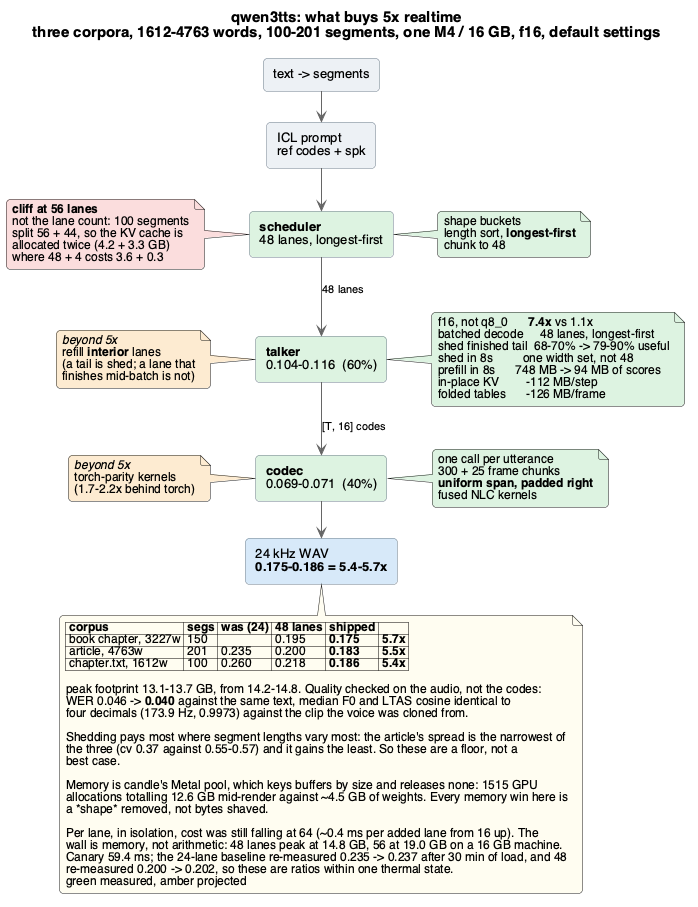
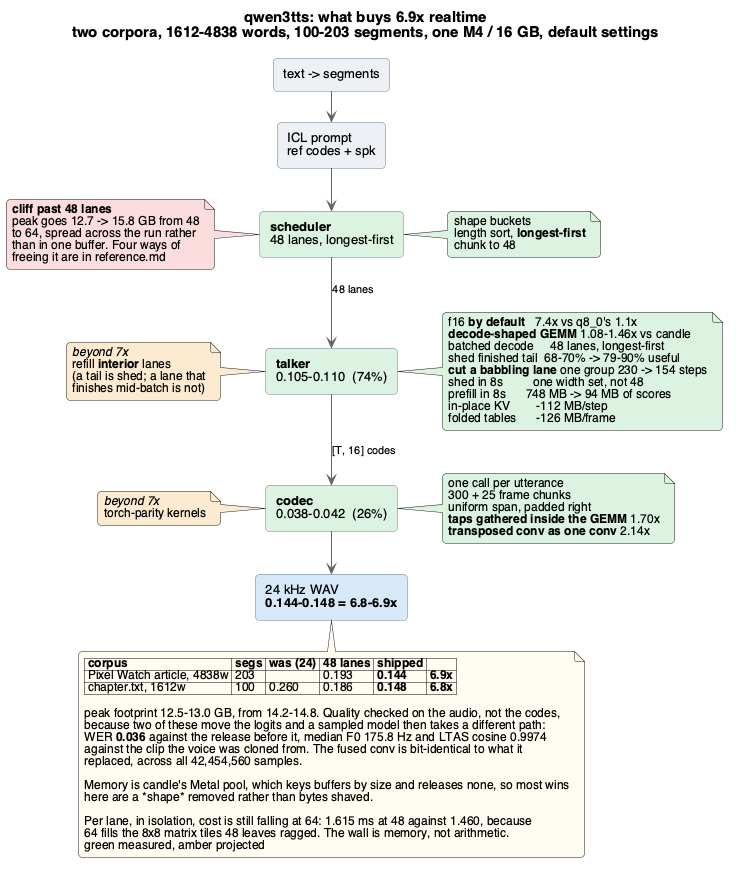
docs: make the performance chapter agree with itself
Four rounds of targeted edits left the README asserting things it had already
disproved elsewhere on the same page. The worst was a recommendation: it named
reusing one KV allocation across groups as "the next fix" for the lane cliff,
which was measured this cycle at 17.10 GB of peak against 13.33 and reverted.
A reader would have spent a day on it.

The rest was drift. The heading promised 6x under a body claiming 6.9x; the
quality paragraph quoted v0.2.2's corpus (WER 0.046 -> 0.040 on 4781 words,
F0 173.9) under a table of two different ones; the codec was called 40% of the
total where it is now 26%, making the stated ceiling of "RTF 0.070, or 14x"
wrong in the direction that flatters it; a 300-frame chunk was 6.50 GB before
the fused conv and is 5.55 now.

The speedup diagram and both lane charts said the same stale things, so they
are regenerated from measurements taken today: the per-lane sweep at 16 through
128, and the article end to end at 24 and 48 lanes.

diff --git a/scripts/plot-lanes.py b/scripts/plot-lanes.py
@@ -10,13 +10,14 @@ from pathlib import Path
 
 OUT = Path(__file__).resolve().parent.parent / "docs"
 
-# End to end, `ck` pixel-watch article: 4763 words, 201 segments, 28m 31s of audio.
+# End to end, `ck` pixel-watch article: 4838 words, 203 segments, 29m 22s of audio, v0.2.3.
 # (lanes, RTF, swapping)
-E2E = [(24, 0.235, False), (48, 0.200, False), (56, 0.701, True), (64, 0.647, True)]
-# Talker trunk alone, span 412 positions, n=5 interleaved. (batch, ms/lane, swapping)
+E2E = [(24, 0.181, False), (48, 0.144, False), (64, 0.692, True)]
+# Talker trunk alone, span 412 positions, n=5 interleaved, one batch size per process.
+# (batch, ms/lane, swapping)
 PER_LANE = [
-    (8, 5.466, False), (16, 4.661, False), (24, 3.222, False), (32, 2.520, False),
-    (48, 1.816, False), (64, 1.470, False), (96, 17.450, True), (128, 25.496, True),
+    (16, 4.020, False), (24, 2.808, False), (32, 2.236, False), (48, 1.615, False),
+    (56, 1.610, False), (64, 1.460, False), (96, 17.431, True), (128, 31.317, True),
 ]
 
 W, H = 620, 320
@@ -93,7 +94,7 @@ def rtf_chart():
     y = lambda v: T + PH * (1 - v / ymax)
     s = head(
         "End-to-end RTF by lane count",
-        "RTF, before finished-tail shedding  ·  4763-word article, 201 segments  ·  f16, M4 / 16 GB",
+        "4838-word article, 203 segments  ·  v0.2.3 defaults, M4 / 16 GB",
     )
     for t in (0, 0.25, 0.5, 0.75):
         s.append(f'<line class="grid" x1="{L}" y1="{y(t):.1f}" x2="{L + PW}" y2="{y(t):.1f}"/>')

diff --git a/README.md b/README.md
@@ -109,9 +109,9 @@ Short-passage figures, for comparison. `examples/senior.txt`, 132 words: `audio8
 
 ### What it needs to be this fast
 
-**16 GB.** `qwen3tts` peaks at 12.3 GB on a single short passage and 13.3 GB on a 203-segment
+**16 GB.** `qwen3tts` peaks at 12.3 GB on a single short passage and 13.0 GB on a 203-segment
 article, and almost all of that is the codec decoder's activations rather than weights — one
-300-frame chunk alone is 6.5 GB. Below 16 GB the engine says so on load and keeps going, which
+300-frame chunk alone is 5.5 GB. Below 16 GB the engine says so on load and keeps going, which
 is the honest option: it will swap, and swapping presents as the model being slow rather than
 as a mistake.
 
@@ -132,7 +132,7 @@ What does help a smaller machine is a different engine. Same passage, same measu
 `QWEN3TTS_MAX_BATCH` trades lanes for footprint if you want to stay on this engine, but it
 cannot go under the codec's own ~12 GB.
 
-## What makes `qwen3tts` fast, and what 6× takes
+## What makes `qwen3tts` fast, and where the 6.9× comes from
 
 ![qwen3tts speedup components](docs/qwen3tts-speedup.png)
 
@@ -162,27 +162,29 @@ Four of them carry most of it, and two are kernels:
 | Pixel Watch article, 4838 words | 203 | | 0.193 | **0.144** | **6.9×** |
 | `examples/chapter.txt`, 1612 words | 100 | 0.260 | 0.186 | **0.148** | **6.8×** |
 
-**Shedding pays most where segment lengths vary most**, so those are a floor rather than a best
-case: the 4763-word article has the *narrowest* spread of the three (coefficient of variation
-0.37 against 0.55-0.57) and gains the least.
+**Shedding pays most where segment lengths vary most**, so these are a floor rather than a best
+case: the article's segment lengths have the narrower spread of the two and it gains the least.
 
-**Quality was checked on the audio, not on the codes**, because token identity is the wrong
-metric for a sampled model. Against the same text, WER went 0.046 → **0.040** (218 → 189 errors
-in 4781 words), and median F0 and LTAS cosine against the clip this voice was cloned from are
-identical to four decimals — 173.9 Hz and 0.9973 before and after. `references/cosyvoice/wer.py`
-and `references/audio8/verify_voice.py` are the tools.
+**Quality is checked on the audio, not on the codes**, because token identity is the wrong metric
+for a sampled model — two of the four changes above move the logits, and a sampled model then
+takes a different path through the same text. Against the article, WER is **0.036** where the
+release before it was 0.038 (176 against 184 errors in 4838 words), and median F0 and LTAS cosine
+against the clip this voice was cloned from are **175.8 Hz and 0.9974**, unchanged to the digits
+that mean anything. `references/cosyvoice/wer.py` and `references/audio8/verify_voice.py` are the
+tools. The fused conv is stronger than that: its render is bit-identical to the one before it
+across all 42,454,560 samples.
 
 ### Memory is candle's buffer pool, not the lane count
 
-Peak footprint is now **13.1-13.7 GB**, from 14.2-14.8. The lever is not obvious, so it is worth
-stating plainly: `vmmap` attributes a chapter render to **1515 GPU allocations totalling 12.6 GB**
-against ~4.5 GB of weights, because candle's Metal pool keys buffers by size and releases none.
-Every distinct tensor shape a run touches is therefore permanent, and every memory win is a
-*shape removed* rather than bytes shaved:
+Peak footprint is now **12.5-13.0 GB**, from 14.2-14.8. The lever is not obvious, so it is worth
+stating plainly: `vmmap` attributes a render to GPU allocations far exceeding its ~4.5 GB of
+weights, because candle's Metal pool keys buffers by size and releases none. Every distinct
+tensor shape a run touches is therefore permanent, and most memory wins here are a *shape
+removed* rather than bytes shaved:
 
 - **The codec decodes a uniform span, padded on the right.** The natural loop runs two lengths —
   300 frames for the first chunk, which has no history to spend, then 325 — and one 300-frame
-  chunk is **6.50 GB** of activations, so the second length cost about that again. Extending each
+  chunk is **5.55 GB** of activations, so the second length cost about that again. Extending each
   window *rightwards* is free because the decoder is causal, and the gate confirms the audio is
   unchanged. Moving the seams instead is *not* free: `codec.long.wav_chunked` fails at rel 3.4e-1,
   because the reference's own chunked output differs from its unchunked one.
@@ -198,13 +200,20 @@ KV cache implies. So the 16 GB machine runs out because of the floor, not the la
 
 ![RTF by lane count](docs/qwen3tts-lanes-rtf.svg)
 
-56 lanes still swaps, and the reason is the *number of large groups* rather than the count: a
-100-segment document splits 56 + 44, so the KV cache is allocated twice at 4.2 + 3.3 GB where
-48 + 4 costs 3.6 + 0.3. Reusing one allocation across groups is the next fix; allocating a
-fixed-size one per group was tried and made 48 lanes swap.
+**Past 48 lanes it swaps, and that is not one allocation anyone can move.** The obvious
+suspect is that a 100-segment document splits 64 + 36, so the KV cache is allocated at two
+widths and the pool keeps both. It is not enough: four separate attempts at freeing 64 lanes
+are recorded in [what did not work](docs/reference.md#what-did-not-work), and the closest —
+slicing the codec's waveform stack, which is *exact*, since every conv below the pre-transformer
+is causal — bought 1.08 GB for 9% more time and still swapped at 64. Peak goes 12.7 to 15.8 GB
+between 48 lanes and 64, and it is spread across the run rather than sitting in one buffer. The
+codec's activations are the floor, and the only lever on those costs more than the lanes return.
 
-There is no arithmetic saturation to find before that wall. An added lane costs a flat ~0.4 ms
-from 16 to 64, and per-lane cost is still falling where the engine has already run out of memory:
+There is no arithmetic saturation to find before that wall. An added lane costs about 0.4 ms
+from 16 to 64, and per-lane cost is still falling where the engine has already run out of
+memory — 1.615 ms at 48 against 1.460 at 64, because 64 fills the 8×8 matrix tiles that 48
+leaves ragged. Only past that does the curve turn: 96 lanes costs 17.4 ms per lane and 128
+costs 31.3, which is the VM compressor rather than arithmetic.
 
 ![cost per lane](docs/qwen3tts-lanes-perlane.svg)
 
@@ -212,11 +221,11 @@ A machine with more memory should sweep `QWEN3TTS_MAX_BATCH` again — the cliff
 curve above it has not flattened. Regenerate both charts with `python3 scripts/plot-lanes.py`;
 the measurements are inline in that script.
 
-The two amber components are what a *sixth* multiple would need, and neither has a fixture behind
-it: refilling an interior lane the moment it hits `codec_eos` rather than only shedding tails, and
-closing the 1.7-2.2× the codec still gives away to torch. The codec is 40% of the total now and
-does not batch by construction, so it is the ceiling: with a free talker the floor is RTF 0.070,
-or 14×.
+The two amber components are what a *seventh* multiple would need, and neither has a fixture
+behind it: refilling an interior lane the moment it hits `codec_eos` rather than only shedding
+tails, and closing what the codec still gives away to torch. The codec is 26% of the total now,
+down from 40%, and does not batch by construction — with a free talker the floor is RTF 0.038,
+or 26×, so the ceiling has moved back to the talker.
 
 What each component is doing, and the paths already refuted — f32 weights, batched q8_0,
 device-side sampling, an f16 codec, ONNX, CoreML — are in

diff --git a/docs/reference.md b/docs/reference.md
@@ -253,8 +253,9 @@ Two fixtures, both tracked so any figure here can be reproduced:
 
 ### Short passage
 
-`examples/senior.txt`, M4 / 16 GB, `q8_0`. Median of five samples with the three engines
-interleaved in one session.
+`examples/senior.txt`, M4 / 16 GB. Median of five samples with the three engines interleaved in
+one session, taken when `qwen3tts`'s default was `q8_0`; at today's `f16` default the same
+passage reads **0.397**, still the wrong case for it.
 
 | engine | reference | this port | spread | |
 |---|---|---|---|---|
@@ -841,10 +842,10 @@ A flat words-per-second rate is the obvious model and it is wrong by a factor of
 half, in both directions.
 
 These engines have strong economies of scale. `qwen3tts` batches across segments and that
-only engages once a chapter has enough of them, so the documented figures are RTF **0.665**
-on `examples/senior.txt` (132 words) and **0.260** on `examples/chapter.txt` (1612 words) —
-0.287 s/word against 0.112 s/word for the same voice on the same machine. A rate learned
-from a short chapter and applied to a long one predicts 463 s where the truth is 181 s.
+only engages once a chapter has enough of them, so the figures are RTF **0.397** on
+`examples/senior.txt` (132 words) and **0.148** on `examples/chapter.txt` (1612 words) — a
+2.7× spread in seconds per word for the same voice on the same machine. A rate learned from a
+short chapter and applied to a long one is wrong by about that much.
 
 It goes the other way too, and that was the first bug: a book's front matter is 27 words of
 title page, almost all fixed cost, and extrapolating from it put a real run's estimate at
